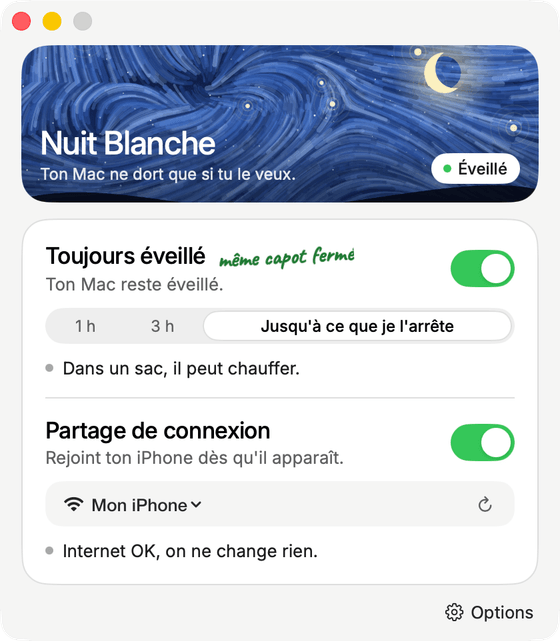
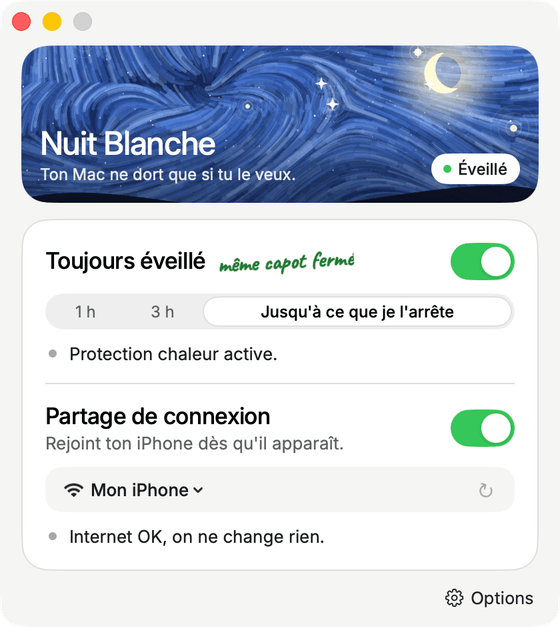
site: update from the app repository

diff --git a/docs/index.html b/docs/index.html
@@ -162,7 +162,7 @@ try {
           <button class="switch" type="button" role="switch" aria-checked="true" aria-label="Toujours éveillé, démonstration" disabled data-power></button>
         </div>
         <p class="seg" aria-hidden="true"><span>1 h</span><span>3 h</span><span class="is-on">Jusqu'à ce que je l'arrête</span></p>
-        <p class="hint" aria-hidden="true">Dans un sac, il peut chauffer.</p>
+        <p class="hint" aria-hidden="true">Protection chaleur active.</p>
         <div class="app-sep"></div>
         <div class="power">
           <div class="power__text">
@@ -307,12 +307,12 @@ try {
       </div>
       <p class="note" aria-hidden="true">on veille sur toi</p>
       <h3>Il sait s'arrêter tout seul.</h3>
-      <p>Sur batterie, sous 10 %, il s'arrête et te prévient. Branché, jamais. Ou choisis 1 h, 3 h, ou jusqu'à ce que tu l'arrêtes.</p>
+      <p>Sur batterie, sous 10 %, il s'arrête et te prévient. Trop chaud dans le sac ? Il s'arrête aussi, pour laisser ton Mac refroidir. Branché, jamais.</p>
     </article>
 
     <article class="feat">
       <div class="vig vig--menu" aria-hidden="true">
-        <div class="mbar"><span class="mbar__moon"><svg class="moon" viewBox="0 0 24 24" width="16" height="16" fill="none" stroke-linecap="round" stroke-linejoin="round"><g class="m-on"><path d="M10.64 3.52A8.5 8.5 0 1 0 17.78 15.42A7 7 0 0 1 10.64 3.52Z" fill="currentColor"/><path d="M11.4 11.6c.9-1.3 2.1-1.9 3.4-1.9s2.5.6 3.4 1.9c-.9 1.3-2.1 1.9-3.4 1.9s-2.5-.6-3.4-1.9Z" stroke="currentColor" stroke-width="1.3"/><circle cx="14.8" cy="11.6" r=".95" fill="currentColor"/><path d="M20.6 1.6l.55 1.3 1.3.55-1.3.55-.55 1.3-.55-1.3-1.3-.55 1.3-.55Z" fill="currentColor"/></g><g class="m-off"><path d="M10.64 3.52A8.5 8.5 0 1 0 17.78 15.42A7 7 0 0 1 10.64 3.52Z" stroke="currentColor" stroke-width="1.4"/><path d="M11.6 11c.9 1.1 2 1.6 3.2 1.6s2.3-.5 3.2-1.6M12.6 12.4l-.5 1.1M14.8 12.8v1.2M17 12.4l.5 1.1" stroke="currentColor" stroke-width="1.3"/></g></svg></span><span class="mbar__i">5G</span><span class="mbar__i">03:12</span></div>
+        <div class="mbar"><span class="mbar__moon"><svg class="moon" viewBox="0 0 24 24" width="16" height="16" fill="none" stroke-linecap="round" stroke-linejoin="round"><g class="m-on"><path d="M10.64 3.52A8.5 8.5 0 1 0 17.78 15.42A7 7 0 0 1 10.64 3.52Z" fill="currentColor"/><path d="M11.4 11.6c.9-1.3 2.1-1.9 3.4-1.9s2.5.6 3.4 1.9c-.9 1.3-2.1 1.9-3.4 1.9s-2.5-.6-3.4-1.9Z" stroke="currentColor" stroke-width="1.3"/><circle cx="14.8" cy="11.6" r=".95" fill="currentColor"/><path d="M20.6 1.6l.55 1.3 1.3.55-1.3.55-.55 1.3-.55-1.3-1.3-.55 1.3-.55Z" fill="currentColor"/></g><g class="m-off"><path d="M10.64 3.52A8.5 8.5 0 1 0 17.78 15.42A7 7 0 0 1 10.64 3.52Z" stroke="currentColor" stroke-width="1.4"/><path d="M11.6 11c.9 1.1 2 1.6 3.2 1.6s2.3-.5 3.2-1.6M12.6 12.4l-.5 1.1M14.8 12.8v1.2M17 12.4l.5 1.1" stroke="currentColor" stroke-width="1.3"/></g></svg></span><span class="mbar__i">5G</span><span class="mbar__i">08:42</span></div>
         <div class="mpanel">
           <div class="mpanel__head"><span class="mpanel__title">Nuit Blanche</span><span class="mpanel__chip"><i></i><b class="mp-on">Éveillé</b><b class="mp-off">Veille normale</b></span></div>
           <div class="mpanel__row mpanel__row--aw"><span class="mpanel__ico"><svg viewBox="0 0 24 24" width="14" height="14"><path d="M10.64 3.52A8.5 8.5 0 1 0 17.78 15.42A7 7 0 0 1 10.64 3.52Z" fill="currentColor"/><path d="M19 3.2l.5 1.2 1.2.5-1.2.5-.5 1.2-.5-1.2-1.2-.5 1.2-.5Z" fill="currentColor"/></svg></span><span class="mpanel__txt"><b>Toujours éveillé</b><small><span class="mp-on">Même capot fermé</span><span class="mp-off">Veille normale</span></small></span><span class="mpanel__sw"></span></div>
@@ -384,12 +384,12 @@ try {
     </div>
     <div class="wt__screen" id="wt-screen" aria-hidden="true">
       <picture class="wt__wall"><source type="image/avif" srcset="assets/banner.avif"><img src="assets/banner.jpg" alt="" width="880" height="373" loading="lazy" decoding="async"></picture>
-      <div class="wt__mbar"><span class="wt__mbar-moon"><svg class="moon" viewBox="0 0 24 24" width="16" height="16" fill="none" stroke-linecap="round" stroke-linejoin="round"><g class="m-on"><path d="M10.64 3.52A8.5 8.5 0 1 0 17.78 15.42A7 7 0 0 1 10.64 3.52Z" fill="currentColor"/><path d="M11.4 11.6c.9-1.3 2.1-1.9 3.4-1.9s2.5.6 3.4 1.9c-.9 1.3-2.1 1.9-3.4 1.9s-2.5-.6-3.4-1.9Z" stroke="currentColor" stroke-width="1.3"/><circle cx="14.8" cy="11.6" r=".95" fill="currentColor"/><path d="M20.6 1.6l.55 1.3 1.3.55-1.3.55-.55 1.3-.55-1.3-1.3-.55 1.3-.55Z" fill="currentColor"/></g><g class="m-off"><path d="M10.64 3.52A8.5 8.5 0 1 0 17.78 15.42A7 7 0 0 1 10.64 3.52Z" stroke="currentColor" stroke-width="1.4"/><path d="M11.6 11c.9 1.1 2 1.6 3.2 1.6s2.3-.5 3.2-1.6M12.6 12.4l-.5 1.1M14.8 12.8v1.2M17 12.4l.5 1.1" stroke="currentColor" stroke-width="1.3"/></g></svg></span><span>5G</span><span>03:12</span></div>
+      <div class="wt__mbar"><span class="wt__mbar-moon"><svg class="moon" viewBox="0 0 24 24" width="16" height="16" fill="none" stroke-linecap="round" stroke-linejoin="round"><g class="m-on"><path d="M10.64 3.52A8.5 8.5 0 1 0 17.78 15.42A7 7 0 0 1 10.64 3.52Z" fill="currentColor"/><path d="M11.4 11.6c.9-1.3 2.1-1.9 3.4-1.9s2.5.6 3.4 1.9c-.9 1.3-2.1 1.9-3.4 1.9s-2.5-.6-3.4-1.9Z" stroke="currentColor" stroke-width="1.3"/><circle cx="14.8" cy="11.6" r=".95" fill="currentColor"/><path d="M20.6 1.6l.55 1.3 1.3.55-1.3.55-.55 1.3-.55-1.3-1.3-.55 1.3-.55Z" fill="currentColor"/></g><g class="m-off"><path d="M10.64 3.52A8.5 8.5 0 1 0 17.78 15.42A7 7 0 0 1 10.64 3.52Z" stroke="currentColor" stroke-width="1.4"/><path d="M11.6 11c.9 1.1 2 1.6 3.2 1.6s2.3-.5 3.2-1.6M12.6 12.4l-.5 1.1M14.8 12.8v1.2M17 12.4l.5 1.1" stroke="currentColor" stroke-width="1.3"/></g></svg></span><span>5G</span><span>08:42</span></div>
 
       <div class="scene scene--1" data-scene="1">
         <div class="win win--browser">
           <div class="win__bar"><i></i><i></i><i></i><span class="win__url">connected-mate.github.io/nuit-blanche</span></div>
-          <div class="win__body"><p class="s1__h">Ton Mac ne dort plus.</p><span class="s1__btn">Télécharger pour Mac</span></div>
+          <div class="win__body"><p class="s1__h">Ferme le capot. Ton Mac continue.</p><span class="s1__btn">Télécharger pour Mac</span></div>
         </div>
         <div class="dlchip"><span class="dlchip__ico">⬇</span><span class="dlchip__txt">NuitBlanche.dmg<small>6,4 Mo</small></span><span class="bar"><i></i></span></div>
         <svg class="cur" viewBox="0 0 24 24" width="24" height="24"><path d="M5 3l14 8.2-6.3 1.4 3.6 6.6-2.6 1.4-3.6-6.6L5 18.6V3Z" fill="#fff" stroke="#000" stroke-width="1.4" stroke-linejoin="round"/></svg>
@@ -463,25 +463,17 @@ try {
 
     <div class="qa-list">
       <details class="qa">
-        <summary>Est-ce que c'est sans danger pour mon Mac&nbsp;?</summary>
+        <summary>Ça marche vraiment dans un sac&nbsp;? Et la chaleur&nbsp;?</summary>
         <div class="qa__body">
-          <p>Oui. Nuit Blanche ne fait qu'une chose&nbsp;: dire à ton Mac de ne pas s'endormir tant que «&nbsp;Toujours éveillé&nbsp;» est allumé. Dès que tu l'éteins, ou que tu quittes l'app, ton Mac retrouve son sommeil normal.</p>
-          <p>L'app est notarisée par Apple&nbsp;: Apple l'a vérifiée avant que tu puisses l'ouvrir.</p>
+          <p>Oui, c'est fait pour. Nuit Blanche surveille la température de ton Mac (l'état thermique de macOS et celle de la batterie). S'il chauffe, vers 45&nbsp;°C, il ménage ce qui peut l'être (l'écran peut s'éteindre, la recherche Wi‑Fi ralentit) et te prévient&nbsp;: «&nbsp;Ton Mac chauffe&nbsp;».</p>
+          <p>S'il devient trop chaud, vers 50&nbsp;°C, il s'arrête tout seul et la veille normale revient pour qu'il refroidisse&nbsp;: «&nbsp;Trop chaud&nbsp;: veille rétablie pour refroidir.&nbsp;» C'est un filet de sécurité&nbsp;: un sac pas trop serré, c'est encore mieux.</p>
         </div>
       </details>
 
       <details class="qa">
-        <summary>Et la chaleur, capot fermé&nbsp;?</summary>
+        <summary>Le Wi‑Fi du train demande de se connecter&nbsp;: que se passe-t-il&nbsp;?</summary>
         <div class="qa__body">
-          <p>Capot fermé, ton Mac travaille comme d'habitude, il a donc besoin de respirer. Pose-le sur une surface dure plutôt que sur un lit ou un canapé, et <strong>ne le range pas dans un sac ou une housse pendant qu'il tourne</strong>.</p>
-          <p>Si tu dois le glisser dans ton sac, éteins d'abord Nuit Blanche d'un clic.</p>
-        </div>
-      </details>
-
-      <details class="qa">
-        <summary>Va-t-il vider ma batterie&nbsp;?</summary>
-        <div class="qa__body">
-          <p>Un Mac éveillé consomme plus qu'un Mac endormi, c'est normal. C'est pour ça que Nuit Blanche surveille la batterie&nbsp;: sur batterie, sous 10&nbsp;%, il s'arrête tout seul, t'envoie une notification et laisse ton Mac s'endormir. Dans Options, tu peux choisir 5, 10, 20 ou 30&nbsp;%, ou jamais. Branché sur secteur, il ne s'arrête jamais.</p>
+          <p>Un Wi‑Fi qui t'affiche une page de connexion compte comme «&nbsp;pas d'Internet&nbsp;». Après deux vérifications ratées (un simple tunnel ne suffit pas), ton Mac rejoint le partage de connexion de ton iPhone, et y reste tant qu'il marche.</p>
         </div>
       </details>
 
@@ -493,17 +485,47 @@ try {
       </details>
 
       <details class="qa">
+        <summary>Va-t-il vider ma batterie&nbsp;?</summary>
+        <div class="qa__body">
+          <p>Un Mac éveillé consomme plus qu'un Mac endormi, c'est normal. Sur batterie, sous 10&nbsp;%, Nuit Blanche s'arrête tout seul, te prévient et laisse ton Mac s'endormir. Dans Options, tu peux choisir de 5 à 30&nbsp;%, ou jamais. Branché, il ne s'arrête jamais.</p>
+          <p>La fenêtre te dit où tu en es&nbsp;: «&nbsp;Éveillé depuis 1&nbsp;h&nbsp;20 · batterie −18&nbsp;%&nbsp;».</p>
+        </div>
+      </details>
+
+      <details class="qa">
+        <summary>Est-ce que c'est sans danger pour mon Mac&nbsp;?</summary>
+        <div class="qa__body">
+          <p>Oui. Nuit Blanche ne fait qu'une chose&nbsp;: dire à ton Mac de ne pas s'endormir tant que «&nbsp;Toujours éveillé&nbsp;» est allumé. Dès que tu l'éteins, que tu quittes l'app ou qu'il fait trop chaud, ton Mac retrouve son sommeil normal.</p>
+          <p>L'app est notarisée par Apple&nbsp;: Apple l'a vérifiée avant que tu puisses l'ouvrir.</p>
+        </div>
+      </details>
+
+      <details class="qa">
         <summary>Pourquoi l'app demande-t-elle une autorisation au premier lancement&nbsp;?</summary>
         <div class="qa__body">
-          <p>Pour rester éveillé capot fermé, Nuit Blanche s'appuie sur un petit assistant en arrière-plan. Une seule fois, macOS te demande de l'autoriser, sous «&nbsp;Autoriser en arrière-plan&nbsp;». Pas besoin de chercher&nbsp;: un clic sur «&nbsp;Autoriser&nbsp;» ouvre le bon réglage, et un petit panneau t'indique l'interrupteur à activer. macOS peut te demander ton mot de passe à ce moment-là. Ensuite, plus jamais.</p>
-          <p>Si tu utilises le partage de connexion, macOS te demandera aussi l'accès à la localisation&nbsp;: c'est sa règle pour voir le nom des réseaux Wi‑Fi. Et Nuit Blanche te demande d'afficher des notifications, pour te prévenir quand il s'arrête tout seul. Rien de tout ça ne sort de ton Mac.</p>
+          <p>Pour rester éveillé capot fermé, Nuit Blanche s'appuie sur un petit assistant en arrière-plan. Une seule fois, macOS te demande de l'autoriser, sous «&nbsp;Autoriser en arrière-plan&nbsp;». Un clic sur «&nbsp;Autoriser&nbsp;» ouvre le bon réglage, et un petit panneau t'indique l'interrupteur à activer. Ensuite, plus jamais.</p>
+          <p>Pour le partage de connexion, macOS demande aussi l'accès à la localisation&nbsp;: c'est sa règle pour voir le nom des réseaux Wi‑Fi. Sur un Mac d'entreprise qui bloque l'assistant, l'app te le dit franchement&nbsp;: «&nbsp;Bloqué par l'entreprise&nbsp;: capot ouvert seulement.&nbsp;»</p>
+        </div>
+      </details>
+
+      <details class="qa">
+        <summary>Comment se fait la mise à jour&nbsp;?</summary>
+        <div class="qa__body">
+          <p>L'app vérifie une fois par jour et t'affiche «&nbsp;Mise à jour disponible&nbsp;». Rien ne s'installe sans ton clic.</p>
+        </div>
+      </details>
+
+      <details class="qa">
+        <summary>Un souci&nbsp;? Comment le signaler&nbsp;?</summary>
+        <div class="qa__body">
+          <p>Dans Options, «&nbsp;Signaler un problème…&nbsp;» enregistre sur ton Bureau un petit fichier lisible (sans noms de réseaux ni e‑mails) et ouvre une page GitHub déjà remplie. Rien n'est envoyé tout seul&nbsp;: c'est toi qui décides.</p>
         </div>
       </details>
 
       <details class="qa">
         <summary>Quelle version de macOS faut-il&nbsp;?</summary>
         <div class="qa__body">
-          <p>macOS 14 (Sonoma) ou plus récent.</p>
+          <p>macOS 14 (Sonoma) ou plus récent, sur Mac Apple Silicon comme Intel.</p>
         </div>
       </details>
 
@@ -511,14 +533,14 @@ try {
         <summary>Comment l'installer, et le désinstaller&nbsp;?</summary>
         <div class="qa__body">
           <p>Télécharge le fichier, ouvre-le, et glisse <strong>Nuit Blanche</strong> dans le dossier Applications.</p>
-          <p>Pour le désinstaller&nbsp;: dans le menu de la petite lune, choisis «&nbsp;Quitter&nbsp;». Ton Mac retrouve sa veille normale en quelques secondes. Puis mets l'app à la corbeille.</p>
+          <p>Pour le désinstaller, mets simplement l'app à la corbeille, même allumée&nbsp;: la veille normale revient d'elle-même en quelques secondes. Quitter fait pareil.</p>
         </div>
       </details>
 
       <details class="qa">
         <summary>C'est vraiment gratuit&nbsp;?</summary>
         <div class="qa__body">
-          <p>Oui. Pas d'abonnement, pas de compte, pas de publicité. Rien n'est envoyé nulle part.</p>
+          <p>Oui. Pas d'abonnement, pas de compte, pas de publicité, aucun suivi. Seule la vérification des mises à jour contacte Internet, une fois par jour.</p>
         </div>
       </details>
     </div>

diff --git a/docs/en/index.html b/docs/en/index.html
@@ -156,7 +156,7 @@ try {
           <button class="switch" type="button" role="switch" aria-checked="true" aria-label="Always awake, demo" disabled data-power></button>
         </div>
         <p class="seg" aria-hidden="true"><span>1 h</span><span>3 h</span><span class="is-on">Until I stop it</span></p>
-        <p class="hint" aria-hidden="true">In a bag, it can get warm.</p>
+        <p class="hint" aria-hidden="true">Heat protection on.</p>
         <div class="app-sep"></div>
         <div class="power">
           <div class="power__text">
@@ -301,12 +301,12 @@ try {
       </div>
       <p class="note" aria-hidden="true">we’ve got you</p>
       <h3>It knows when to stop.</h3>
-      <p>On battery, below 10%, it stops and lets you know. Plugged in, never. Or pick 1 h, 3 h, or until you stop it.</p>
+      <p>On battery, below 10%, it stops and lets you know. Too hot in the bag? It stops too, so your Mac can cool down. Plugged in, never.</p>
     </article>
 
     <article class="feat">
       <div class="vig vig--menu" aria-hidden="true">
-        <div class="mbar"><span class="mbar__moon"><svg class="moon" viewBox="0 0 24 24" width="16" height="16" fill="none" stroke-linecap="round" stroke-linejoin="round"><g class="m-on"><path d="M10.64 3.52A8.5 8.5 0 1 0 17.78 15.42A7 7 0 0 1 10.64 3.52Z" fill="currentColor"/><path d="M11.4 11.6c.9-1.3 2.1-1.9 3.4-1.9s2.5.6 3.4 1.9c-.9 1.3-2.1 1.9-3.4 1.9s-2.5-.6-3.4-1.9Z" stroke="currentColor" stroke-width="1.3"/><circle cx="14.8" cy="11.6" r=".95" fill="currentColor"/><path d="M20.6 1.6l.55 1.3 1.3.55-1.3.55-.55 1.3-.55-1.3-1.3-.55 1.3-.55Z" fill="currentColor"/></g><g class="m-off"><path d="M10.64 3.52A8.5 8.5 0 1 0 17.78 15.42A7 7 0 0 1 10.64 3.52Z" stroke="currentColor" stroke-width="1.4"/><path d="M11.6 11c.9 1.1 2 1.6 3.2 1.6s2.3-.5 3.2-1.6M12.6 12.4l-.5 1.1M14.8 12.8v1.2M17 12.4l.5 1.1" stroke="currentColor" stroke-width="1.3"/></g></svg></span><span class="mbar__i">5G</span><span class="mbar__i">03:12</span></div>
+        <div class="mbar"><span class="mbar__moon"><svg class="moon" viewBox="0 0 24 24" width="16" height="16" fill="none" stroke-linecap="round" stroke-linejoin="round"><g class="m-on"><path d="M10.64 3.52A8.5 8.5 0 1 0 17.78 15.42A7 7 0 0 1 10.64 3.52Z" fill="currentColor"/><path d="M11.4 11.6c.9-1.3 2.1-1.9 3.4-1.9s2.5.6 3.4 1.9c-.9 1.3-2.1 1.9-3.4 1.9s-2.5-.6-3.4-1.9Z" stroke="currentColor" stroke-width="1.3"/><circle cx="14.8" cy="11.6" r=".95" fill="currentColor"/><path d="M20.6 1.6l.55 1.3 1.3.55-1.3.55-.55 1.3-.55-1.3-1.3-.55 1.3-.55Z" fill="currentColor"/></g><g class="m-off"><path d="M10.64 3.52A8.5 8.5 0 1 0 17.78 15.42A7 7 0 0 1 10.64 3.52Z" stroke="currentColor" stroke-width="1.4"/><path d="M11.6 11c.9 1.1 2 1.6 3.2 1.6s2.3-.5 3.2-1.6M12.6 12.4l-.5 1.1M14.8 12.8v1.2M17 12.4l.5 1.1" stroke="currentColor" stroke-width="1.3"/></g></svg></span><span class="mbar__i">5G</span><span class="mbar__i">08:42</span></div>
         <div class="mpanel">
           <div class="mpanel__head"><span class="mpanel__title">Nuit Blanche</span><span class="mpanel__chip"><i></i><b class="mp-on">Awake</b><b class="mp-off">Normal sleep</b></span></div>
           <div class="mpanel__row mpanel__row--aw"><span class="mpanel__ico"><svg viewBox="0 0 24 24" width="14" height="14"><path d="M10.64 3.52A8.5 8.5 0 1 0 17.78 15.42A7 7 0 0 1 10.64 3.52Z" fill="currentColor"/><path d="M19 3.2l.5 1.2 1.2.5-1.2.5-.5 1.2-.5-1.2-1.2-.5 1.2-.5Z" fill="currentColor"/></svg></span><span class="mpanel__txt"><b>Always awake</b><small><span class="mp-on">Even with the lid closed</span><span class="mp-off">Normal sleep</span></small></span><span class="mpanel__sw"></span></div>
@@ -378,12 +378,12 @@ try {
     </div>
     <div class="wt__screen" id="wt-screen" aria-hidden="true">
       <picture class="wt__wall"><source type="image/avif" srcset="../assets/banner.avif"><img src="../assets/banner.jpg" alt="" width="880" height="373" loading="lazy" decoding="async"></picture>
-      <div class="wt__mbar"><span class="wt__mbar-moon"><svg class="moon" viewBox="0 0 24 24" width="16" height="16" fill="none" stroke-linecap="round" stroke-linejoin="round"><g class="m-on"><path d="M10.64 3.52A8.5 8.5 0 1 0 17.78 15.42A7 7 0 0 1 10.64 3.52Z" fill="currentColor"/><path d="M11.4 11.6c.9-1.3 2.1-1.9 3.4-1.9s2.5.6 3.4 1.9c-.9 1.3-2.1 1.9-3.4 1.9s-2.5-.6-3.4-1.9Z" stroke="currentColor" stroke-width="1.3"/><circle cx="14.8" cy="11.6" r=".95" fill="currentColor"/><path d="M20.6 1.6l.55 1.3 1.3.55-1.3.55-.55 1.3-.55-1.3-1.3-.55 1.3-.55Z" fill="currentColor"/></g><g class="m-off"><path d="M10.64 3.52A8.5 8.5 0 1 0 17.78 15.42A7 7 0 0 1 10.64 3.52Z" stroke="currentColor" stroke-width="1.4"/><path d="M11.6 11c.9 1.1 2 1.6 3.2 1.6s2.3-.5 3.2-1.6M12.6 12.4l-.5 1.1M14.8 12.8v1.2M17 12.4l.5 1.1" stroke="currentColor" stroke-width="1.3"/></g></svg></span><span>5G</span><span>03:12</span></div>
+      <div class="wt__mbar"><span class="wt__mbar-moon"><svg class="moon" viewBox="0 0 24 24" width="16" height="16" fill="none" stroke-linecap="round" stroke-linejoin="round"><g class="m-on"><path d="M10.64 3.52A8.5 8.5 0 1 0 17.78 15.42A7 7 0 0 1 10.64 3.52Z" fill="currentColor"/><path d="M11.4 11.6c.9-1.3 2.1-1.9 3.4-1.9s2.5.6 3.4 1.9c-.9 1.3-2.1 1.9-3.4 1.9s-2.5-.6-3.4-1.9Z" stroke="currentColor" stroke-width="1.3"/><circle cx="14.8" cy="11.6" r=".95" fill="currentColor"/><path d="M20.6 1.6l.55 1.3 1.3.55-1.3.55-.55 1.3-.55-1.3-1.3-.55 1.3-.55Z" fill="currentColor"/></g><g class="m-off"><path d="M10.64 3.52A8.5 8.5 0 1 0 17.78 15.42A7 7 0 0 1 10.64 3.52Z" stroke="currentColor" stroke-width="1.4"/><path d="M11.6 11c.9 1.1 2 1.6 3.2 1.6s2.3-.5 3.2-1.6M12.6 12.4l-.5 1.1M14.8 12.8v1.2M17 12.4l.5 1.1" stroke="currentColor" stroke-width="1.3"/></g></svg></span><span>5G</span><span>08:42</span></div>
 
       <div class="scene scene--1" data-scene="1">
         <div class="win win--browser">
           <div class="win__bar"><i></i><i></i><i></i><span class="win__url">connected-mate.github.io/nuit-blanche</span></div>
-          <div class="win__body"><p class="s1__h">Your Mac stays up.</p><span class="s1__btn">Download for Mac</span></div>
+          <div class="win__body"><p class="s1__h">Close the lid. Your Mac keeps going.</p><span class="s1__btn">Download for Mac</span></div>
         </div>
         <div class="dlchip"><span class="dlchip__ico">⬇</span><span class="dlchip__txt">NuitBlanche.dmg<small>6.4 MB</small></span><span class="bar"><i></i></span></div>
         <svg class="cur" viewBox="0 0 24 24" width="24" height="24"><path d="M5 3l14 8.2-6.3 1.4 3.6 6.6-2.6 1.4-3.6-6.6L5 18.6V3Z" fill="#fff" stroke="#000" stroke-width="1.4" stroke-linejoin="round"/></svg>
@@ -457,47 +457,69 @@ try {
 
     <div class="qa-list">
       <details class="qa">
-        <summary>Is it safe for my Mac?</summary>
+        <summary>Does it really work in a bag? What about heat?</summary>
         <div class="qa__body">
-          <p>Yes. Nuit Blanche does one thing: it tells your Mac not to sleep while “Always awake” is on. As soon as you switch it off, or quit the app, your Mac gets its normal sleep back.</p>
-          <p>The app is notarized by Apple: Apple checked it before you can open it.</p>
+          <p>Yes, that’s what it’s for. Nuit Blanche watches your Mac’s temperature (macOS’s thermal state and the battery’s). When it gets warm, around 45 °C, it eases off what it can (the screen may sleep, Wi‑Fi scans slow down) and sends you a notification.</p>
+          <p>If it gets too hot, around 50 °C, it stops on its own and normal sleep returns so the Mac can cool down. It’s a safety net: a bag that isn’t too tight is even better.</p>
         </div>
       </details>
 
       <details class="qa">
-        <summary>What about heat with the lid closed?</summary>
+        <summary>The train Wi‑Fi wants me to log in: what happens?</summary>
         <div class="qa__body">
-          <p>With the lid closed your Mac works as usual, so it needs to breathe. Set it on a hard surface rather than a bed or sofa, and <strong>don’t put it in a bag or sleeve while it’s running</strong>.</p>
-          <p>If it has to go in your bag, switch Nuit Blanche off first, in one click.</p>
+          <p>A Wi‑Fi that shows you a login page counts as “no internet”. After two failed checks (a single tunnel isn’t enough), your Mac joins your iPhone’s Personal Hotspot and stays on it while it works.</p>
         </div>
       </details>
 
       <details class="qa">
-        <summary>Will it drain my battery?</summary>
-        <div class="qa__body">
-          <p>An awake Mac uses more power than a sleeping one, that’s normal. That’s why Nuit Blanche watches the battery: on battery, below 10%, it stops on its own, sends you a notification and lets your Mac sleep. In Options, you can pick 5, 10, 20 or 30%, or never. Plugged in, it never stops.</p>
-        </div>
-      </details>
-
-      <details class="qa">
-        <summary>Does the hotspot use my mobile data?</summary>
+        <summary>Does Personal Hotspot use my mobile data?</summary>
         <div class="qa__body">
           <p>Yes: when your Mac goes online through your iPhone, it uses your mobile plan’s data, like any hotspot. That’s why, by default, Nuit Blanche only joins it when your Mac has no other way online. You can also tell it to always prefer it, or turn the option off.</p>
         </div>
       </details>
 
       <details class="qa">
+        <summary>Will it drain my battery?</summary>
+        <div class="qa__body">
+          <p>An awake Mac uses more power than a sleeping one, that’s normal. On battery, below 10%, Nuit Blanche stops on its own, lets you know and lets your Mac sleep. In Options, you can pick 5 to 30%, or never. Plugged in, it never stops.</p>
+          <p>The window keeps you posted: “Awake for 1 h 20 · battery −18%”.</p>
+        </div>
+      </details>
+
+      <details class="qa">
+        <summary>Is it safe for my Mac?</summary>
+        <div class="qa__body">
+          <p>Yes. Nuit Blanche does one thing: it tells your Mac not to sleep while “Always awake” is on. As soon as you switch it off, quit the app or it gets too hot, your Mac gets its normal sleep back.</p>
+          <p>The app is notarized by Apple: Apple checked it before you can open it.</p>
+        </div>
+      </details>
+
+      <details class="qa">
         <summary>Why does it ask for permission the first time?</summary>
         <div class="qa__body">
-          <p>To stay awake with the lid closed, Nuit Blanche relies on a small helper in the background. Just once, macOS asks you to allow it, under “Allow in the Background”. No hunting around: one click on “Allow” opens the right setting, and a small panel points to the switch to turn on. macOS may ask for your Mac password at that moment. After that, never again.</p>
-          <p>If you use Personal Hotspot, macOS will also ask for Location access: that’s its rule for seeing Wi‑Fi network names. And Nuit Blanche asks to show notifications, to let you know when it stops on its own. None of this ever leaves your Mac.</p>
+          <p>To stay awake with the lid closed, Nuit Blanche relies on a small helper in the background. Just once, macOS asks you to allow it, under “Allow in the Background”. One click on “Allow” opens the right setting, and a small panel points to the switch to turn on. After that, never again.</p>
+          <p>For Personal Hotspot, macOS also asks for Location access: that’s its rule for seeing Wi‑Fi network names. On a company Mac that blocks the helper, the app tells you plainly: lid-open only.</p>
+        </div>
+      </details>
+
+      <details class="qa">
+        <summary>How does it update?</summary>
+        <div class="qa__body">
+          <p>The app checks once a day and shows “Update available”. Nothing installs without your click.</p>
+        </div>
+      </details>
+
+      <details class="qa">
+        <summary>Something wrong? How do I report it?</summary>
+        <div class="qa__body">
+          <p>In Options, “Report a problem…” saves a small readable file on your Desktop (no network names, no emails) and opens a prefilled GitHub page. Nothing is sent on its own: you decide.</p>
         </div>
       </details>
 
       <details class="qa">
         <summary>Which version of macOS do I need?</summary>
         <div class="qa__body">
-          <p>macOS 14 (Sonoma) or later.</p>
+          <p>macOS 14 (Sonoma) or later, on Apple Silicon and Intel Macs.</p>
         </div>
       </details>
 
@@ -505,14 +527,14 @@ try {
         <summary>How do I install and uninstall it?</summary>
         <div class="qa__body">
           <p>Download the file, open it, and drag <strong>Nuit Blanche</strong> into your Applications folder.</p>
-          <p>To uninstall: in the little moon’s menu, choose “Quit”. Your Mac gets its normal sleep back within seconds. Then move the app to the Trash.</p>
+          <p>To uninstall, just move the app to the Trash, even while it’s on: normal sleep comes back by itself within seconds. Quitting does the same.</p>
         </div>
       </details>
 
       <details class="qa">
         <summary>Is it really free?</summary>
         <div class="qa__body">
-          <p>Yes. No subscription, no account, no ads. Nothing is sent anywhere.</p>
+          <p>Yes. No subscription, no account, no ads, no tracking. Only the update check goes online, once a day.</p>
         </div>
       </details>
     </div>
